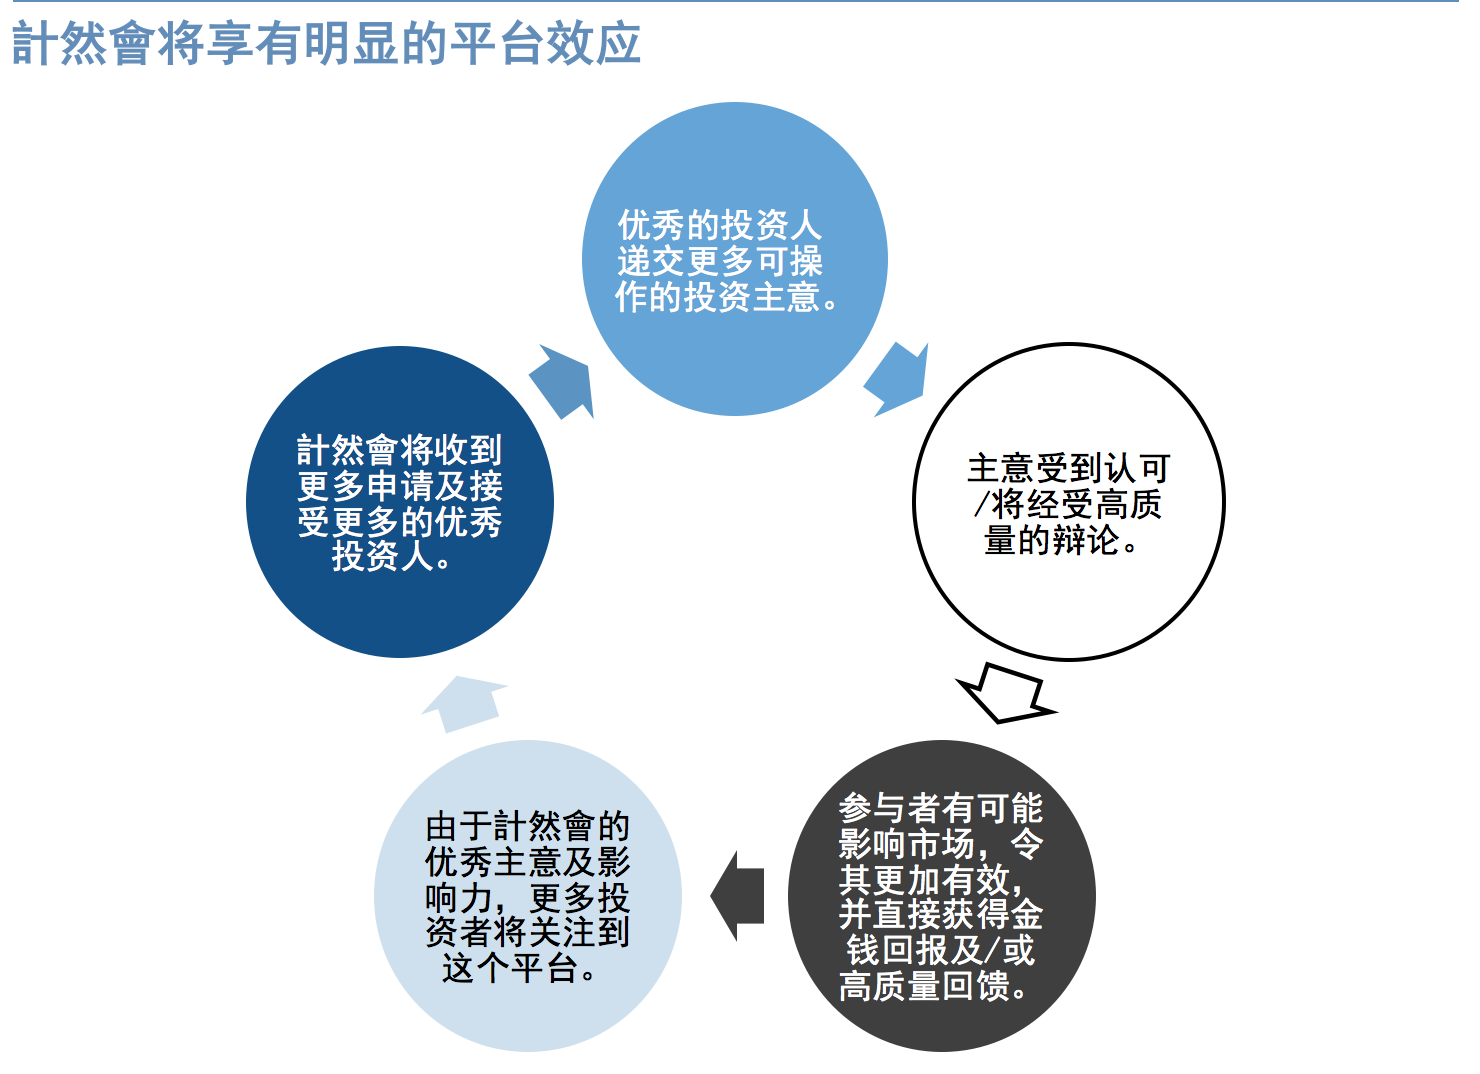
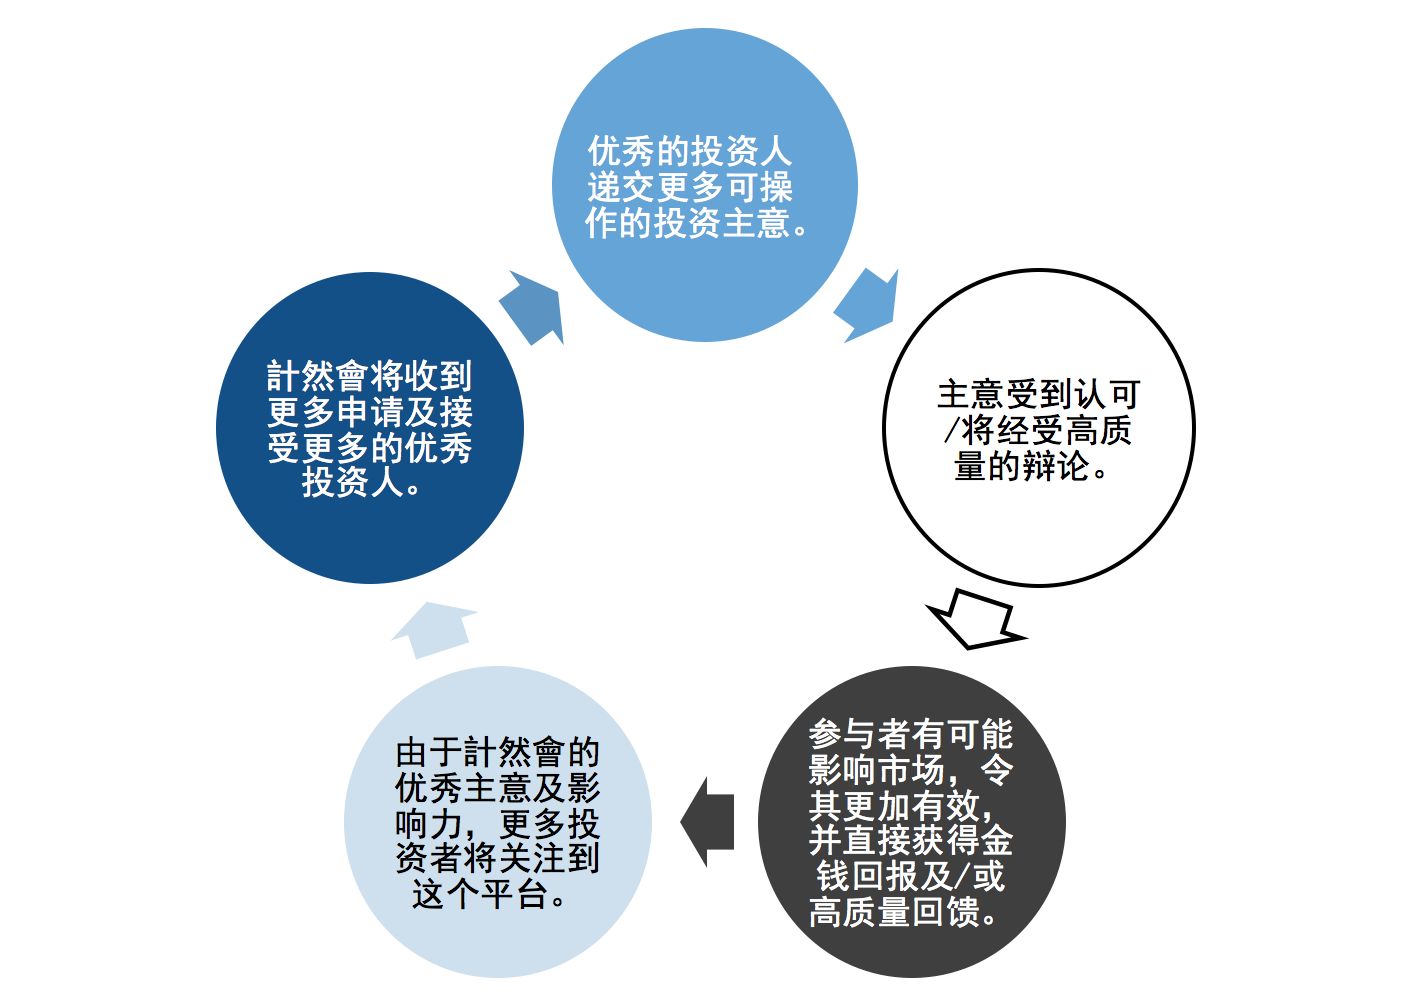
Updating images

diff --git a/forum/templates/forum/landing.html b/forum/templates/forum/landing.html
@@ -195,11 +195,11 @@ body {
 
       <div class="row featurette">
         <div class="col-md-7">
-          <h2 class="featurette-heading">And lastly, this one. <span class="text-muted">Checkmate.</span></h2>
-          <p class="lead">Donec ullamcorper nulla non metus auctor fringilla. Vestibulum id ligula porta felis euismod semper. Praesent commodo cursus magna, vel scelerisque nisl consectetur. Fusce dapibus, tellus ac cursus commodo.</p>
+          <img class="featurette-image img-responsive center-block" src="https://raw.githubusercontent.com/stphnma/investor_club/master/forum/Images/Diagram.png" alt="Generic placeholder image">
         </div>
         <div class="col-md-5">
-          <img class="featurette-image img-responsive center-block" data-src="holder.js/500x500/auto" alt="Generic placeholder image">
+          <p class="lead">計然會将享有明显的平台效应</p>
+
         </div>
       </div>
 
